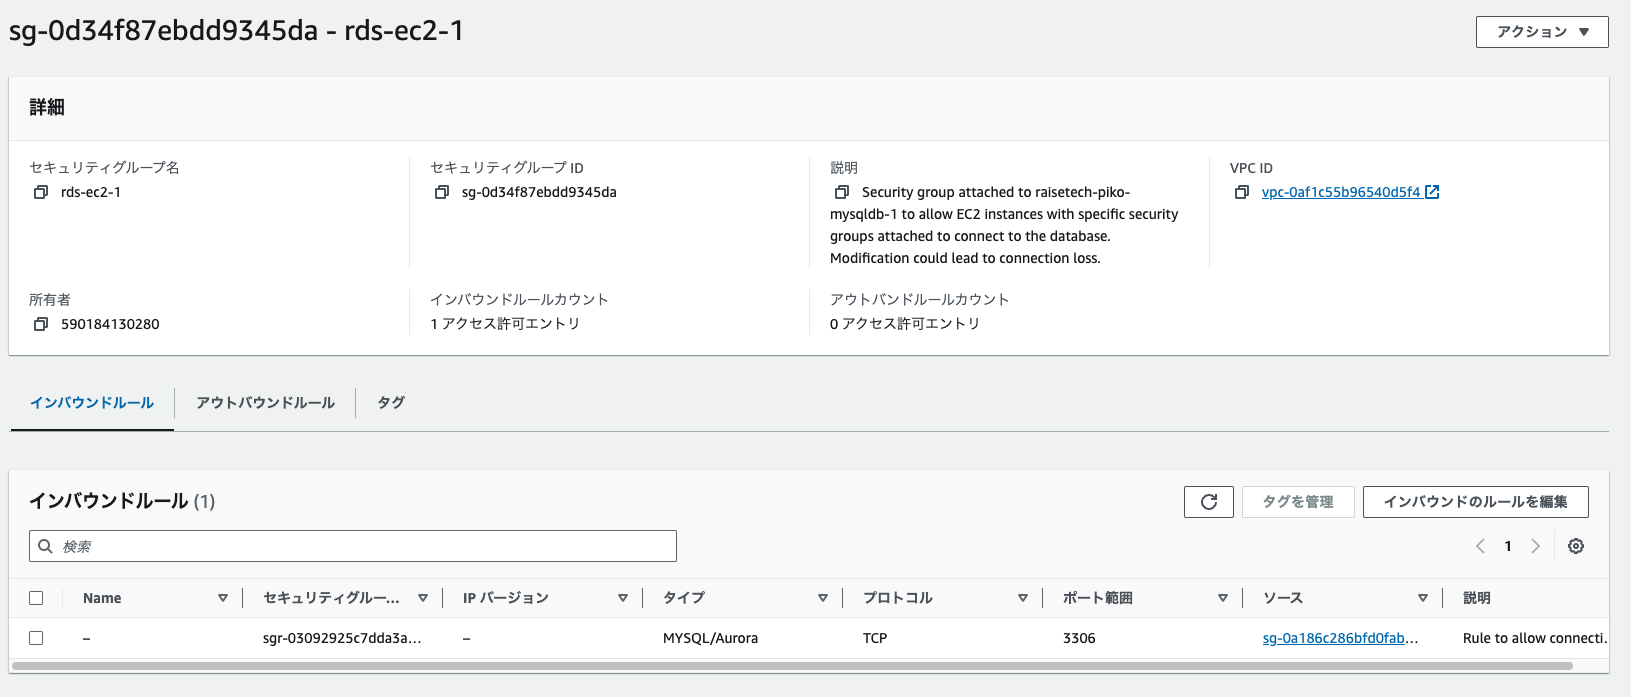
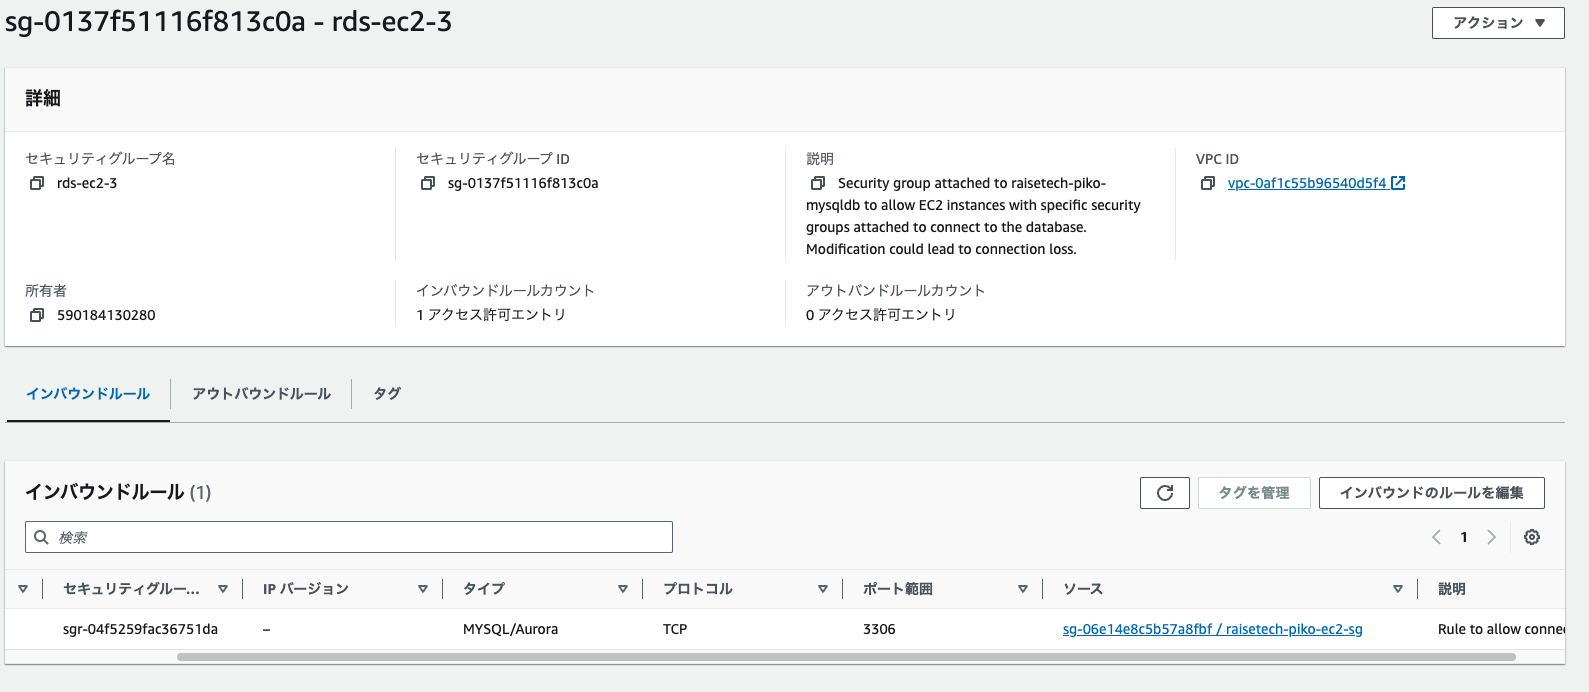
modify lecture04.md and images

diff --git a/lecture04.md b/lecture04.md
@@ -17,14 +17,17 @@
 ### EC2  
 - リソース詳細  
   - インバウンドは22番ポートのSSHで、2環境のローカル端末からの通信のみを許可  
-  - アウトバウンドは将来的な拡張性を踏まえて全ルール許可としている。またMySQLへの接続のための設定も追加する。（ec2-rds-xを削除するとec2からMysqlへの接続がタイムアウトしたため）  
+  - アウトバウンドは将来的な拡張性を踏まえて全ルール許可としている。  
   - VPCは上記で作成したものを利用  
   ![04-02-01](/images/04/04-02-01_ec2-overview.png)  
   ![04-02-02](/images/04/04-02-02_ec2-security.png)  
   ![04-02-03](/images/04/04-02-03_ec2-networking.png)  
 - セキュリティグループ  
-  - EC2→RDSのアウトバウンド  
-  ![04-02-04](/images/04/04-02-04_sg-ec2tords-out.png)  
+  - インバウンド  
+  ![04-02-04](/images/04/04-02-04_sg-ec2-in.png)  
+    - アウトバウンド  
+  ![04-02-05](/images/04/04-02-05_sg-ec2-out.png)  
+
 ### RDS  
 - リソース詳細  
   - インバウンドでEC2からの通信を許可する  
@@ -34,7 +37,7 @@
   - private-1c: subnet-05554277601c5401c
   ![04-03-02](/images/04/04-03-02_rds-subnetgroup.png)  
 - セキュリティグループ  
-  - RDSからEC2のインバウンド  
+  - RDSからEC2のインバウンド(ソースをEC2のSGに設定)  
   ![04-03-05](/images/04/04-03-03_sg-rdstoec2-in.png)  
 ## 課題3 EC2からRDSへ接続  
 - ターミナル履歴  
